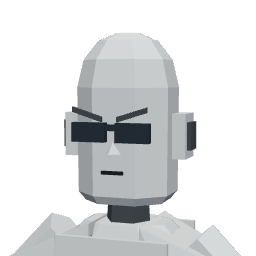
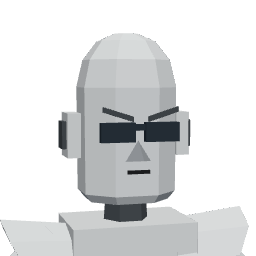
Story: c.sim2 notes and CtrlBuddy's portrait turned toward the chat
Editor notes (Adriaen, 2026-11-01):
- the editor's Live stage no longer overwrites the private build's chat
  wording (document names, the valve's tag) where it still has the public text
- the tuning-tool picture at the end of c.sim2 is gone
- a reply to a report waits for the camera's way back before it is typed;
  the twin's corrections start once that message is sent
- CtrlBuddy hovers by the main separation zone's box in the twin and points at it
- CtrlBuddy's chat portrait turned to his right (qa/portraits.mjs yaw 215)

Claude-Session: https://claude.ai/code/session_0162dJg1Q6jrk9RDdMZRAzer

diff --git a/web/src/story/twin.js b/web/src/story/twin.js
@@ -41,7 +41,18 @@ const smooth = (x) => { const t = Math.max(0, Math.min(1, x)); return t * t * (3
 const BLUE = 0x5fd6ff;
 const SHORT = 1 / 8;   // the correction: 8 m to 7 m
 const EQP = 30;        // rangeability of the equal-percentage curve
-const FIX_WAIT = 1.8;  // s after its message before a correction starts (the camera's way back from the report)
+const FIX_WAIT = 0.3;  // s after his message is sent before its correction starts
+
+// Turn a bone so its length (+Y) points along a world direction, blended by w (as workshop.js aim)
+function aim(bone, want, w = 1) {
+  if (!bone || w <= 0) return;
+  bone.updateMatrixWorld(true);
+  const qb = bone.getWorldQuaternion(new THREE.Quaternion());
+  const now = new THREE.Vector3(0, 1, 0).applyQuaternion(qb);
+  const world = new THREE.Quaternion().setFromUnitVectors(now, now.clone().lerp(want, w).normalize()).multiply(qb);
+  bone.quaternion.copy(bone.parent.getWorldQuaternion(new THREE.Quaternion()).invert().multiply(world));
+  bone.updateMatrixWorld(true);
+}
 const SWAP = 'water';  // the valve the correction swaps (its datasheet: the water outlet's level valve)
 
 // Python colours on top of the shared VS Code look
@@ -261,6 +272,7 @@ export class Twin {
       if (idle) mix.clipAction(idle).play();
       this.mixers.push(mix);
       this.budAt = new THREE.Vector3(-1, 0, 3);
+      this.budBones = bones(this.bud);
       this.bud.position.copy(this.budAt);
       this.scene.add(this.bud);
     }
@@ -276,7 +288,6 @@ export class Twin {
     this.mode = mode;
     this.on = Boolean(mode);
     this.fix = { len: 0, valve: 0 };
-    this.marked = {};
     this.game.room?.setFeeds({ twin: this.rt.texture, twinFix: this.rt.texture });
     if (mode && !was) {
       this.t = mode === 'fix' ? DUR : 0;   // its own clock: a jump between beats runs the story clock on fast
@@ -330,11 +341,15 @@ export class Twin {
       // beside it, a little in front, so we see him three-quarter on
       const want = new THREE.Vector3(Math.min(3.6, this.at.x + 1.6), Math.max(-1.6, this.at.y - 0.3), 2.6);
       if (!key || key === 'run') want.set(2.4, -1.6, 2.8);
+      // while the length is put right he hovers by the dimension line's box and points at it (Adriaen, 2026-11-01)
+      this.pointW = this.mode === 'fix' ? Math.max(0, Math.min(1, this.fix.len * 3, (0.3 - this.fix.valve) * 6)) : 0;
+      this.box = this.sep.group.localToWorld(new THREE.Vector3(0, DIM.ground + 0.2, 2.2));
+      if (this.pointW > 0) want.copy(this.box).add(new THREE.Vector3(2.4, 1.0, 4.5));   // above the box's right end, well in front of the skid
       this.budAt.lerp(want, Math.min(1, dt * 2.5));
       this.bud.position.copy(this.budAt);
       this.bud.position.y += Math.sin(this.t * 2) * 0.06;
       // turned half way between the part and us (the crew look down their -Z)
-      const look = this.at.clone().sub(this.budAt).setY(0).normalize().add(this.camera.position.clone().sub(this.budAt).setY(0).normalize());
+      const look = (this.pointW > 0 ? this.box : this.at).clone().sub(this.budAt).setY(0).normalize().add(this.camera.position.clone().sub(this.budAt).setY(0).normalize());
       this.bud.rotation.y = Math.atan2(-look.x, -look.z);
       const from = this.bud.position.clone().add(new THREE.Vector3(0, 1.05, 0));
       const busy = key && key !== 'run' && k[placing] > 0;
@@ -347,6 +362,10 @@ export class Twin {
       }
     }
     for (const m of this.mixers) m.update(dt);
+    if (this.bud && this.pointW > 0) {
+      const B = this.budBones, sh = B.upper_armR?.getWorldPosition(new THREE.Vector3());
+      if (sh) { const d = this.box.clone().sub(sh).normalize(); aim(B.upper_armR, d, this.pointW); aim(B.forearmR, d, this.pointW); }
+    }
     // Ola's head follows the part
     if (this.opHead) {
       this.opHead.updateMatrixWorld(true);
@@ -363,12 +382,12 @@ export class Twin {
   correct(dt) {
     const f = this.fix, nv = this.newValve, oldG = this.sep.valves[SWAP].group;
     const shown = this.mode === 'fix' ? (CHATS.sim2?.messages ?? []).slice(0, S.chats.sim2 ?? 0) : [];
-    // each change waits until the camera is back from the report before it (Adriaen, 2026-10-30)
-    const since = (this.marked ??= {});
+    // each change starts once his message saying so is sent (he only starts typing once the camera is back
+    // from the report before it: main.js chatTo; Adriaen, 2026-10-30 / 2026-11-01)
     const has = (k) => {
-      if (!shown.some(([, , m]) => m?.twin === k)) { delete since[k]; return false; }
-      since[k] ??= this.t;
-      return this.t - since[k] > FIX_WAIT;
+      const i = shown.findIndex(([, , m]) => m?.twin === k);
+      if (i < 0) return false;
+      return i < shown.length - 1 || S.now - (S.chatAt.sim2 ?? -99) > FIX_WAIT;
     };
     const toward = (v, to) => (to > v ? Math.min(to, v + dt * 0.6) : Math.max(to, v - dt * 0.6));
     f.len = toward(f.len, has('len') ? 1 : 0);

diff --git a/web/src/story/main.js b/web/src/story/main.js
@@ -15,7 +15,7 @@ import '../play.js';
 import { CHAPTERS, ACTS, TITLE, CREDITS, SPEAKERS, CHATS, CHAT_SCREEN, REPORT_SCREEN, CREW_NAMES, DISCLAIMER } from './content.js';
 import { T, SPEECH, cycleSpeech } from './lang.js';
 import lines from './lines.json';
-import { PRIVATE as PRIVATE_ON, OVERRIDES, realDeep } from '../privateNames.js';
+import { PRIVATE as PRIVATE_ON, OVERRIDES, realDeep, real } from '../privateNames.js';
 import { StoryUI } from './ui.js';
 import { Sound } from './sound.js';
 import { Cast } from './cast.js';
@@ -87,7 +87,8 @@ function applyOverrides(o) {
     for (const [id, v] of Object.entries(o.cards ?? {})) Object.assign(c.CARDS[id] ?? {}, v);
     for (const [id, v] of Object.entries(o.slides ?? {})) c.SLIDES[id] = { ...c.SLIDES[id], ...(v.no || v.en ? T(v.no ?? v.en, v.en ?? v.no) : v) };
     for (const [id, v] of Object.entries(o.chats ?? {})) c.setChat(id, v);
-    for (const [id, v] of Object.entries(o.chatText ?? {})) c.setChatText(id, v);
+    const own = PRIVATE_ON && o !== OVERRIDES ? OVERRIDES.chatText : null;   // the editor's Live stage in the private build
+    for (const [id, v] of Object.entries(o.chatText ?? {})) c.setChatText(id, v, own?.[id], (a, b) => a === b || a === real(b));
   });
 }
 ui.findSlides(PRIVATE_ON);
@@ -140,17 +141,20 @@ function chatStep(dir) {
 function chatTo(id, n, typing) {
   const show = CHATS[id].messages[n - 1][0] === 'show';
   apply(merge(state, { chats: { ...state.chats, [id]: n }, shot: show ? CHATS[id].reportShot ?? `monitor:${REPORT_SCREEN}` : CHATS[id].shot ?? `monitor:${CHAT_SCREEN}` }));
-  if (typing) S.chatAt[id] = S.now + typed(id, n);
+  // our reply to a report waits for the camera's way back from it, so the typing is seen (Adriaen, 2026-11-01)
+  const wait = typing && CHATS[id].messages[n - 1]?.[0] === 'me' && CHATS[id].messages[n - 2]?.[0] === 'show' ? REPLY_WAIT : 0;
+  if (typing) S.chatAt[id] = S.now + wait + typed(id, n, wait);
 }
+const REPLY_WAIT = 1.8;
 
 // Our own message in a chat (Adriaen, 2026-10-29): typed out letter by letter
 // to keyboard clacks, quickly; done when the result is in (s to wait)
 const TYPE_CPS = 32, TYPE_TIME = [0.7, 3.5];
-function typed(id, n) {
+function typed(id, n, wait = 0) {
   const m = CHATS[id].messages[n - 1];
   if (m?.[0] !== 'me') return 0;
   const secs = Math.min(TYPE_TIME[1], Math.max(TYPE_TIME[0], String(m[1]).length / TYPE_CPS));
-  sound.typing(secs);
+  sound.typing(secs, wait);
   S.chatType[id] = secs;
   return secs;
 }

diff --git a/web/src/story/storyScreens.js b/web/src/story/storyScreens.js
@@ -338,14 +338,18 @@ function wrap(ctx, s, maxW) {
 // A chat with an agent: the person's messages on the right, the agent's on
 // the left, newest at the bottom; the agent types for a moment first
 function chat(ctx, w, h, id) {
-  const c = CHATS[id], s = w / 640, n = S.chats[id] ?? 0, age = S.now - (S.chatAt[id] ?? -99);
+  const c = CHATS[id], s = w / 640, age = S.now - (S.chatAt[id] ?? -99);
+  // our own message not started yet (main.js chatTo: it waits for the camera): not there at all
+  let n = S.chats[id] ?? 0;
+  const held = n && c.messages[n - 1]?.[0] === 'me' && age < -(S.chatType[id] || 1);
+  if (held) n--;
   rect(ctx, 0, 0, w, h, '#14191f');
   const top = header(ctx, w, c.title, S.clock, '#1c2a27');
   agentIcon(ctx, w - 110 * s, 15 * s, 8 * s);
   const px = 15 * s, lh = 20 * s, pad = 10 * s, maxW = w * 0.58, fr = 30 * s, gap = 2 * fr + 22 * s;
   ctx.font = `500 ${px}px ${SANS}`;
   // a chat that continues another (story.json `continues`, Adriaen 2026-10-31) shows that one's messages above its own
-  const before = c.continues ? CHATS[c.continues]?.messages ?? [] : [], last = n ? before.length + n - 1 : -1;
+  const before = c.continues ? CHATS[c.continues]?.messages ?? [] : [], last = n && !held ? before.length + n - 1 : -1;
   const bubbles = [...before, ...c.messages.slice(0, n)].map(([who, msg], i) => {
     const typing = who === 'ai' && i === last && age < 1.4;
     const lines = typing ? ['•••'] : who === 'show' ? [`▤  ${msg}`] : wrap(ctx, msg, maxW - 2 * pad);

diff --git a/web/src/story/content.js b/web/src/story/content.js
@@ -474,10 +474,16 @@ const chatOf = (c) => ({ title: tx(c.title), who: c.who, faces: c.faces ?? {}, s
 export const CHATS = Object.fromEntries(Object.entries(STORY.chats).map(([id, c]) => [id, chatOf(c)]));
 // the private build's own wording of a chat (overrides.json `chats`)
 export const setChat = (id, c) => { CHATS[id] = chatOf({ ...STORY.chats[id], ...c }); };
-// the story editor's wording, by message: { 2: { no, en } } (keeps each report's file)
-export const setChatText = (id, texts) => {
+// the story editor's wording, by message: { 2: { no, en } } (keeps each report's file).
+// own: the private build's wording (overrides.json chatText), which stands wherever the editor still
+// has the public text, since its Live stage sends every message (Adriaen, 2026-11-01: c.sim2 named no documents)
+export const setChatText = (id, texts, own, same = (a, b) => a === b) => {
   const c = STORY.chats[id];
-  if (c) CHATS[id] = chatOf({ ...c, messages: c.messages.map(([who, m], i) => [who, texts[i] ? { ...m, ...texts[i] } : m]) });
+  if (c) CHATS[id] = chatOf({ ...c, messages: c.messages.map(([who, m, ...rest], i) => {
+    let t = texts[i];
+    if (own?.[i] && (!t || (same(t.no ?? '', m.no ?? '') && same(t.en ?? '', m.en ?? '')))) t = own[i];
+    return [who, t ? { ...m, ...t } : m, ...rest];
+  }) });
 };
 // A chat beat (story.json inserted, `chat`): the chat on one of Adriaen's
 // monitors, its reports on the next; each press shows one more message

diff --git a/web/src/story/sound.js b/web/src/story/sound.js
@@ -155,9 +155,9 @@ export class Sound {
   }
 
   // Someone typing for `secs`: uneven keystrokes, now and then the space bar's deeper knock
-  typing(secs = 0.9) {
+  typing(secs = 0.9, delay = 0) {
     if (!this.ctx) return;
-    let t = this.ctx.currentTime + 0.02;
+    let t = this.ctx.currentTime + 0.02 + delay;
     const end = t + secs;
     while (t < end) {
       const space = Math.random() < 0.15;
